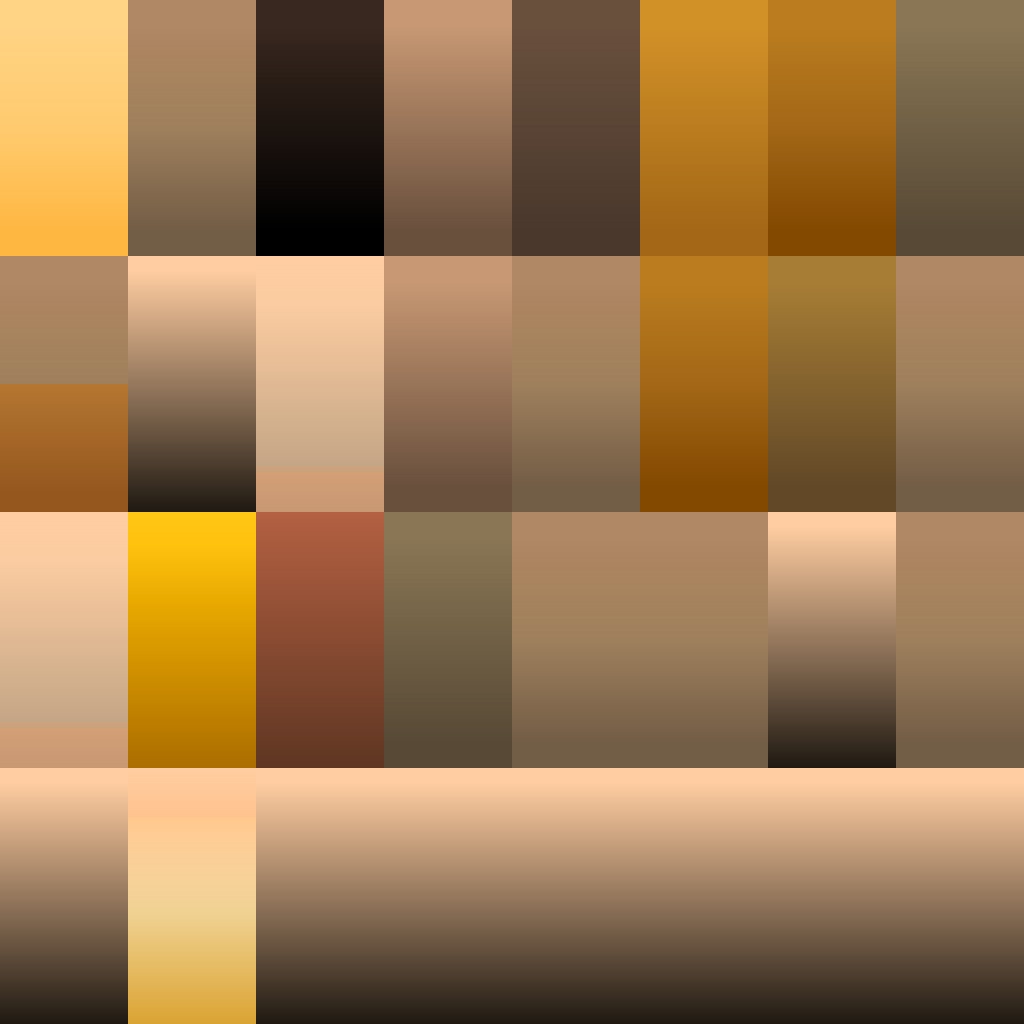
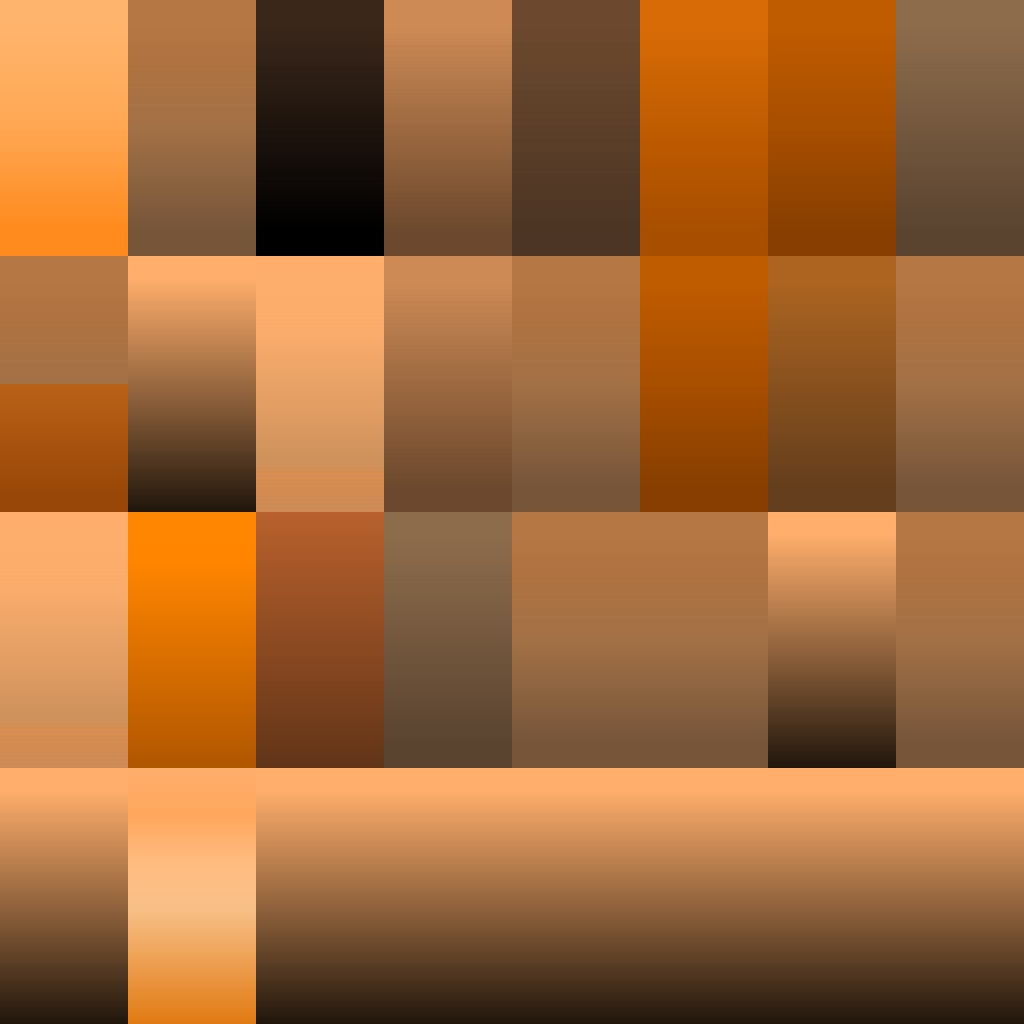
fix: deixa a skin abobora mais alaranjada

diff --git a/Tools/gerar_skins_halloween.py b/Tools/gerar_skins_halloween.py
@@ -28,9 +28,10 @@ CLASSES = {
     "mage": BASE / "Mage/mage_texture.png",
 }
 
-# skin -> (matiz alvo em graus, mult. saturacao, mult. brilho, cor p/ tingir cinzas, forca do tingimento)
+# skin -> (matiz alvo em graus, mult. saturacao, mult. brilho, cor p/ tingir cinzas, forca do tingimento
+#          [, variacao do matiz em graus; padrao 25 -- menor = cores mais uniformes])
 TEMAS = {
-    "abobora":  (28.0, 1.55, 1.05, (255, 130, 20), 0.40),
+    "abobora":  (26.0, 1.85, 1.08, (255, 120, 10), 0.60, 8.0),
     "fantasma": (190.0, 0.25, 1.30, (190, 230, 255), 0.40),
     "zumbi":    (100.0, 0.85, 0.85, (110, 140, 70), 0.28),
     "vampiro":  (352.0, 1.10, 0.85, (90, 10, 20), 0.30),
@@ -66,12 +67,12 @@ def hsv_para_rgb(h, s, v):
     return np.stack([r, g, b], -1)
 
 
-def aplicar_tema(img, matiz, mult_s, mult_v, cor_tinta, forca_tinta):
+def aplicar_tema(img, matiz, mult_s, mult_v, cor_tinta, forca_tinta, variacao=25.0):
     arr = np.asarray(img.convert("RGBA"), dtype=np.float64) / 255.0
     rgb, alfa = arr[..., :3], arr[..., 3:]
     h, s, v = rgb_para_hsv(rgb)
     # mantem variedade de cores: o matiz novo varia um pouco conforme o matiz original
-    novo_h = matiz + 25.0 * np.sin(np.radians(h))
+    novo_h = matiz + variacao * np.sin(np.radians(h))
     peso = np.clip((s - 0.08) / 0.17, 0.0, 1.0)      # pixels coloridos trocam de matiz
     h2 = np.where(peso > 0, novo_h, h)
     s2 = np.clip(s * mult_s, 0, 1)
